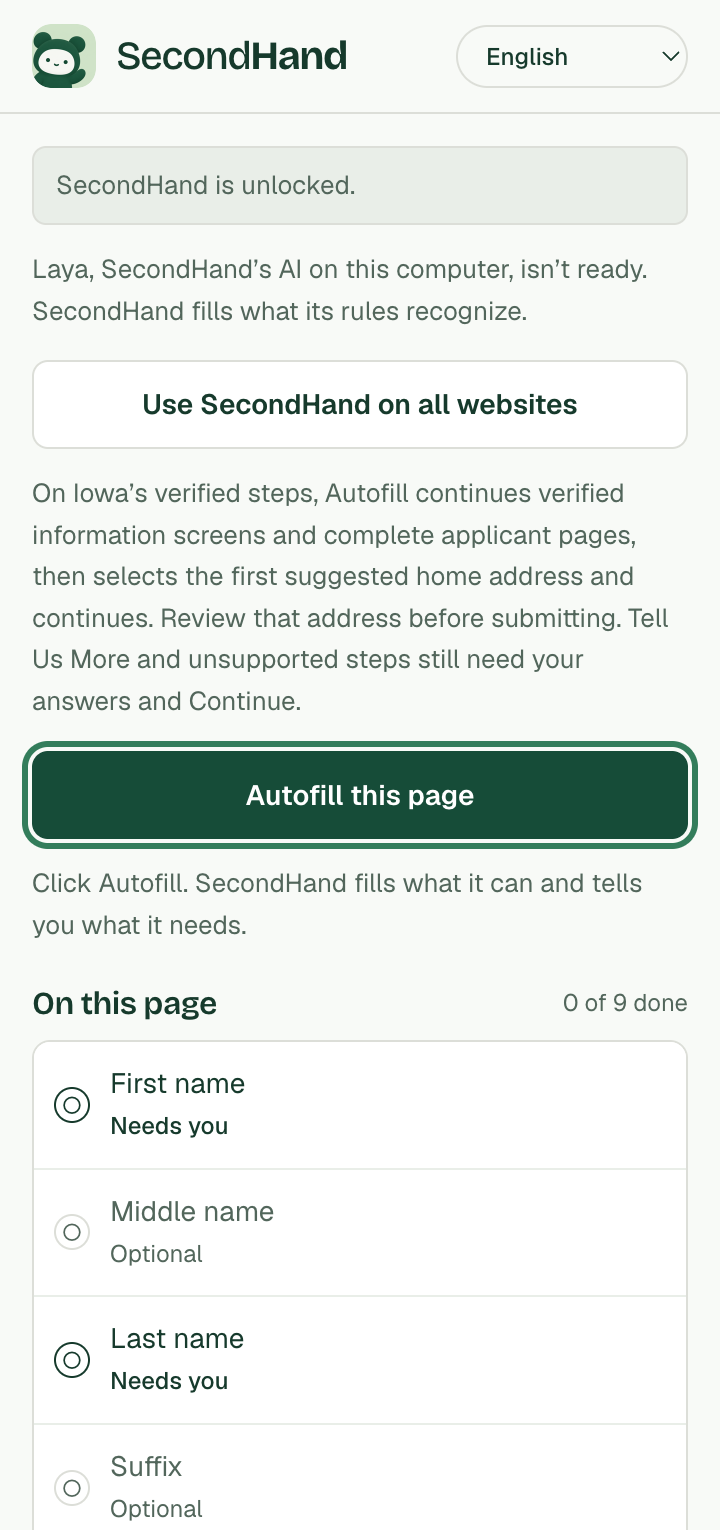
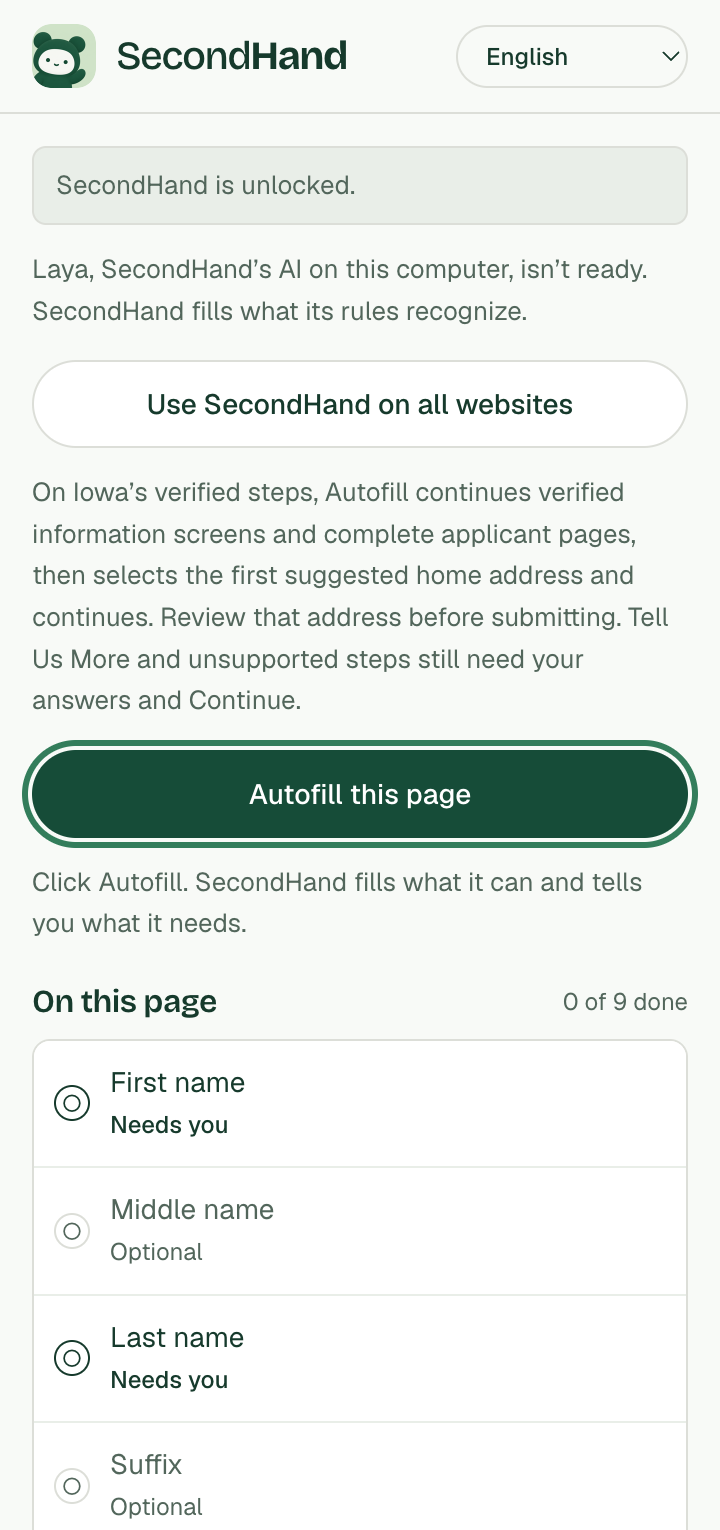
style: use the website's pill buttons and underlined links
Buttons in the side panel take the website's shapes: a filled pill for the main action, an outlined pill for a second one, and an underlined link for the rest, in the website's medium weight rather than bold.

diff --git a/extension/panel.css b/extension/panel.css
@@ -25,8 +25,11 @@ body.launcher-surface{background:transparent}#launcher{width:100%;height:100%;di
 .language-picker{margin-inline-start:auto;max-width:132px;padding:6px 10px;border:1px solid var(--border);border-radius:100px;background:var(--background);font-size:12px;font-weight:500}
 main{padding:16px 16px 0}
 .desktop-row{display:flex;justify-content:space-between;align-items:center;gap:8px;padding:9px 11px;background:var(--muted);border:1px solid var(--border);border-radius:7px}.desktop-row>span{color:var(--muted-foreground);line-height:1.5}.desktop-row.error{background:#fff}.desktop-row.error>span{color:var(--foreground)}
-.text-button{font-size:13px;font-weight:600;background:none;border:0;padding:4px 0;color:var(--foreground);white-space:nowrap}.text-button:hover{text-decoration:underline}.site-off{margin-top:6px}
-.button{border:1px solid transparent;border-radius:8px;min-height:44px;padding:10px 12px;font-size:14px;font-weight:600;margin-top:14px}.primary{background:var(--primary);color:#fff}.primary:hover:enabled{background:var(--pressed)}.full{width:100%}
+/* The website's buttons: a filled pill, an outlined pill, and an underlined link. */
+.button{display:inline-flex;align-items:center;justify-content:center;min-height:44px;padding:10px 20px;border:1px solid transparent;border-radius:100px;font-size:14px;font-weight:500;line-height:1.3;text-align:center;margin-top:14px}.full{width:100%}
+.primary{background:var(--primary);color:#fff}.primary:hover:enabled{background:var(--pressed)}
+.secondary{background:#fff;border-color:var(--border)}.secondary:hover:enabled{background:var(--muted)}
+.text-button{padding:4px 0;border:0;background:none;font-weight:500;text-align:start;text-decoration:underline;text-underline-offset:4px}.text-button:hover:enabled{text-decoration-thickness:2px}.site-off{margin-top:6px}
 .status{color:var(--muted-foreground);margin-top:12px;overflow-wrap:anywhere}.status.error{color:var(--danger)}
 .checklist-section{margin:18px 0 16px}.fields-heading{display:flex;justify-content:space-between;align-items:center;margin-bottom:8px}.fields-heading h2{font-family:var(--display);font-size:16px;font-weight:600;letter-spacing:-.3px;line-height:1.3}.fields-heading span{font-size:12px;color:var(--muted-foreground)}
 .page-checklist{background:#fff;border:1px solid var(--border);border-radius:9px;overflow:auto;max-height:360px;scrollbar-width:thin;scrollbar-color:var(--border) transparent}
@@ -37,7 +40,6 @@ footer{border-top:1px solid var(--border);padding:12px 0 14px}footer p{font-size
 @media(prefers-reduced-motion:reduce){*{scroll-behavior:auto!important}}
 /* The page's questions in the applicant's language. */
 #need-you{color:#f2d58d;font-weight:600}#translate-offer{color:#f2d58d;align-self:flex-start}.visually-hidden{position:absolute!important;width:1px;height:1px;overflow:hidden;clip-path:inset(50%);white-space:nowrap}
-.secondary{background:#fff;color:var(--foreground);border-color:var(--border)}.secondary:hover:enabled{background:var(--muted)}
 .questions-pending{margin:0 0 8px}
 .checklist-item.info{cursor:default}
 /* What this page says: key points Chrome writes on this computer, and the widget's one line of them. */
